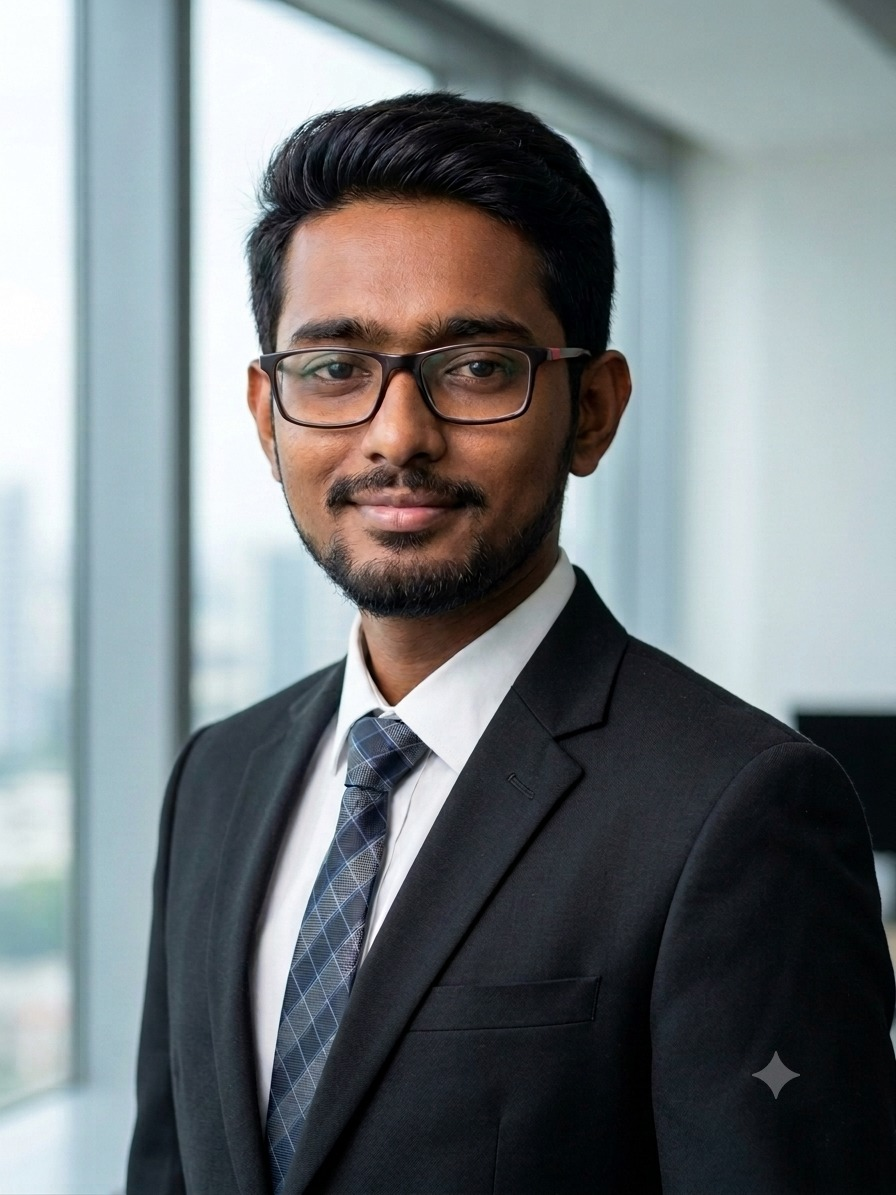
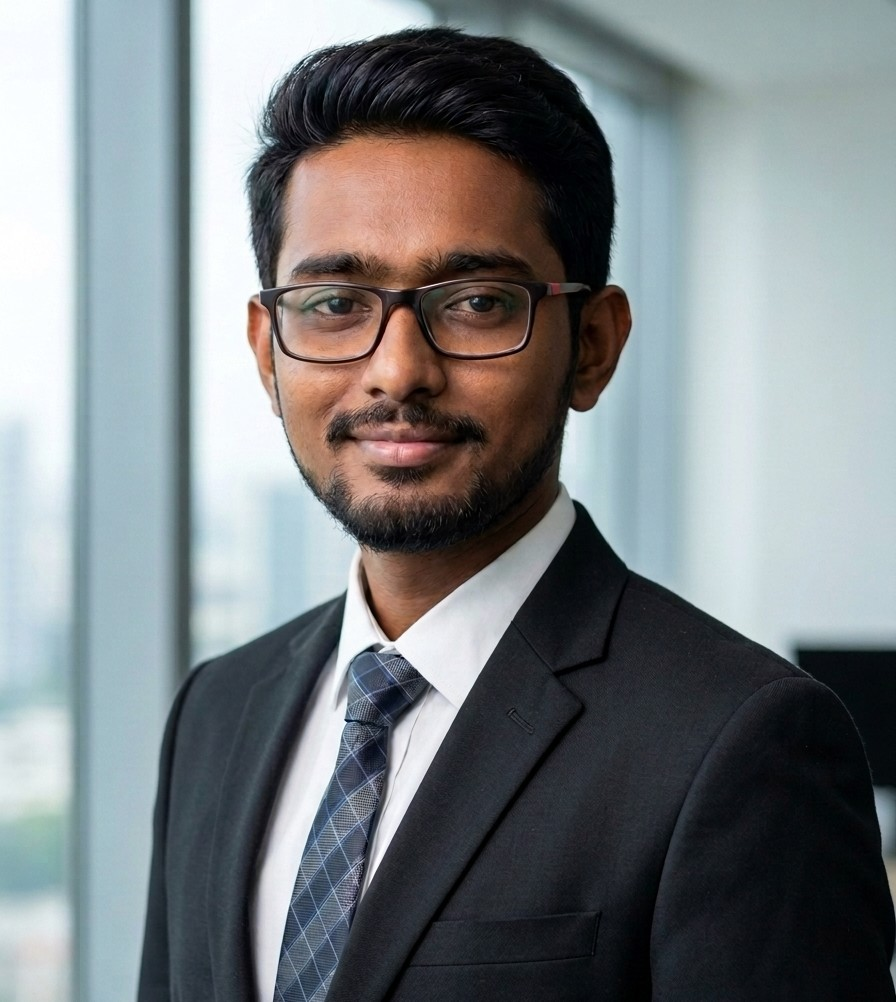
photo: swap to clean watermark-free founder image; bio: remove employer mentions, enhance founder profile

diff --git a/src/data/team.ts b/src/data/team.ts
@@ -28,8 +28,8 @@ export const teamMembers: TeamMember[] = [
     shortBio:
       'AI & ML engineer and Python full-stack developer who founded PRYONX to build practical, production-ready AI systems for real business problems.',
     bio: [
-      'Debadattaa Jena is an AI & Machine Learning developer and Python full-stack engineer with a B.Tech in Computer Science & Engineering. Before founding PRYONX, he worked as an AI & ML developer at WebDzen Technologies and built a strong foundation across machine learning, full-stack engineering, and cyber security.',
-      'He founded PRYONX with one clear conviction: businesses do not need more AI hype — they need AI that actually works in production. Under his leadership, PRYONX designs custom AI solutions, intelligent automation, AI-powered products, and AI voice agents engineered around each client\'s real requirements rather than one-size-fits-all templates.',
+      'Debadattaa Jena is an AI & Machine Learning developer, Python full-stack engineer, and cyber security practitioner with a B.Tech in Computer Science & Engineering. Years of hands-on work across machine learning, end-to-end software engineering, and secure system design shaped his core belief: the best AI is the kind that runs reliably in production and pays for itself.',
+      'He founded PRYONX with one clear conviction: businesses do not need more AI hype — they need AI that actually works. Under his leadership, PRYONX designs custom AI solutions, intelligent automation, AI-powered products, and AI voice agents engineered around each client\'s real requirements rather than one-size-fits-all templates.',
       'He personally leads solution architecture — from discovering the true business problem, to choosing the right technology, to shipping systems that handle real workloads. His engineering mindset keeps PRYONX honest: if simple automation solves the problem better than AI, that is what we build.',
     ],
     expertise: [

diff --git a/src/pages/About.tsx b/src/pages/About.tsx
@@ -237,11 +237,17 @@ export function About() {
                   <h3 className="text-2xl font-bold text-white">{siteData.founder.name}</h3>
                   <p className="text-pryonx-cyan font-medium">{siteData.founder.role}</p>
                   <p className="text-gray-400 leading-relaxed">
-                    PRYONX was founded by {siteData.founder.name} — an AI &amp; ML developer and Python
-                    full-stack engineer — with a clear mission: build practical,
-                    production-ready AI systems that solve real business problems — not demos that look
-                    good in a presentation. Under his leadership, PRYONX delivers custom AI solutions,
-                    intelligent automation, AI products, and AI voice agents tailored to each client.
+                    PRYONX was founded by {siteData.founder.name} — an AI &amp; ML developer, Python
+                    full-stack engineer, and cyber security practitioner — with a clear mission: build
+                    practical, production-ready AI systems that solve real business problems, not demos
+                    that look good in a presentation.
+                  </p>
+                  <p className="text-gray-400 leading-relaxed">
+                    He leads every engagement personally — from discovering the true business problem
+                    and designing the architecture, to deploying systems that handle real workloads.
+                    Under his leadership, PRYONX delivers custom AI solutions, intelligent automation,
+                    AI products, and AI voice agents tailored to each client, staying technology
+                    independent and honest about when AI is — and isn't — the right answer.
                   </p>
                   <div className="flex flex-wrap items-center justify-center md:justify-start gap-4">
                     <a
